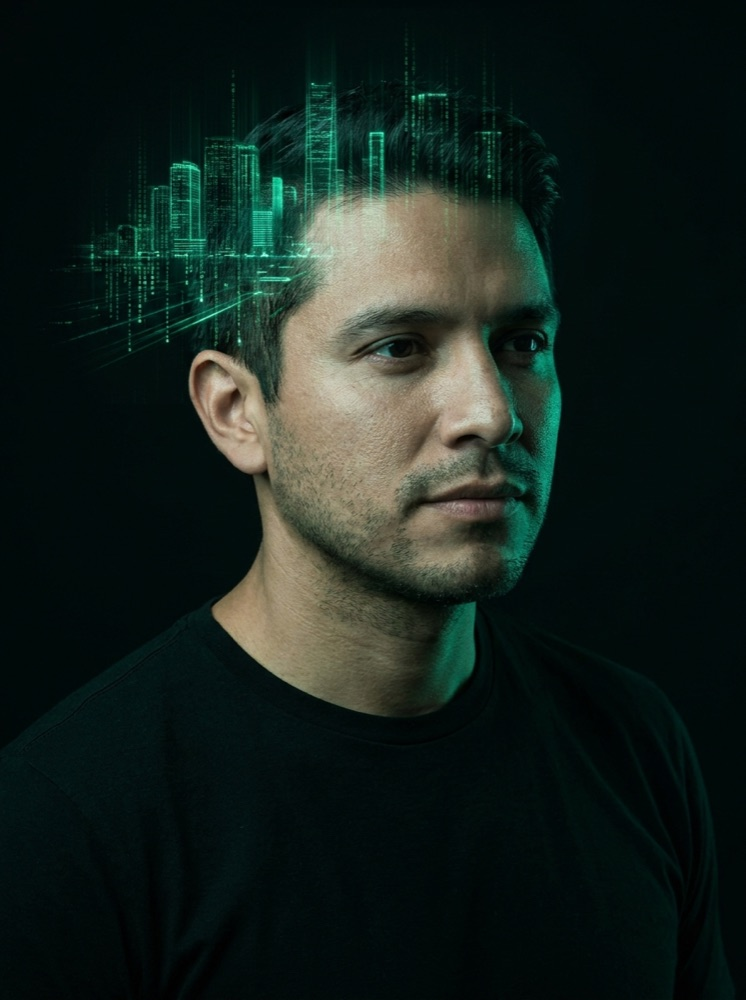
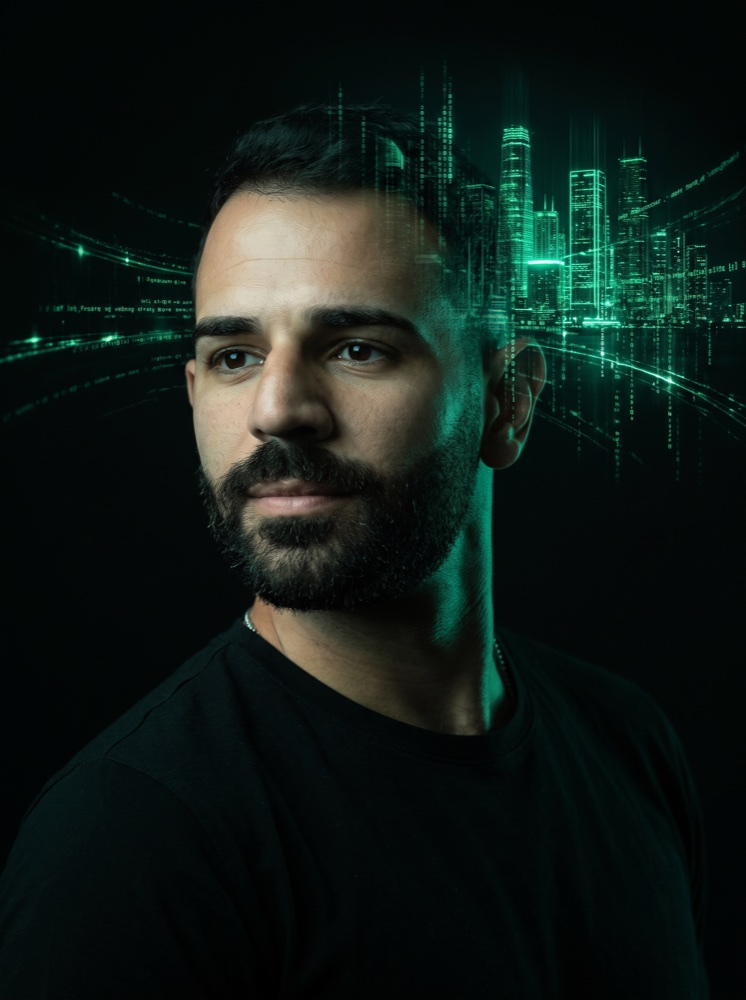
Founders: usar el retrato real de Manuel (referencia real reestilizada al look de La Sala)

Changed region(s): [[0.0, 0.062, 1.0, 0.744], [0.9866, 0.403, 1.0, 0.434], [0.5241, 0.713, 0.555, 0.744]]

diff --git a/index.html b/index.html
@@ -546,7 +546,7 @@
       </div>
       <div class="founder">
         <div class="f-media">
-          <img class="ph" src="img/manuel.jpg" alt="Manuel, co-fundador de La Sala de IA" loading="lazy" style="object-position:50% 28%">
+          <img class="ph" src="img/manuel.jpg" alt="Manuel, co-fundador de La Sala de IA" loading="lazy" style="object-position:50% 22%">
           <span class="f-tag">Co-fundador</span>
           <div class="f-name"><h4>Manuel</h4><div class="role">[su rol]</div></div>
         </div>